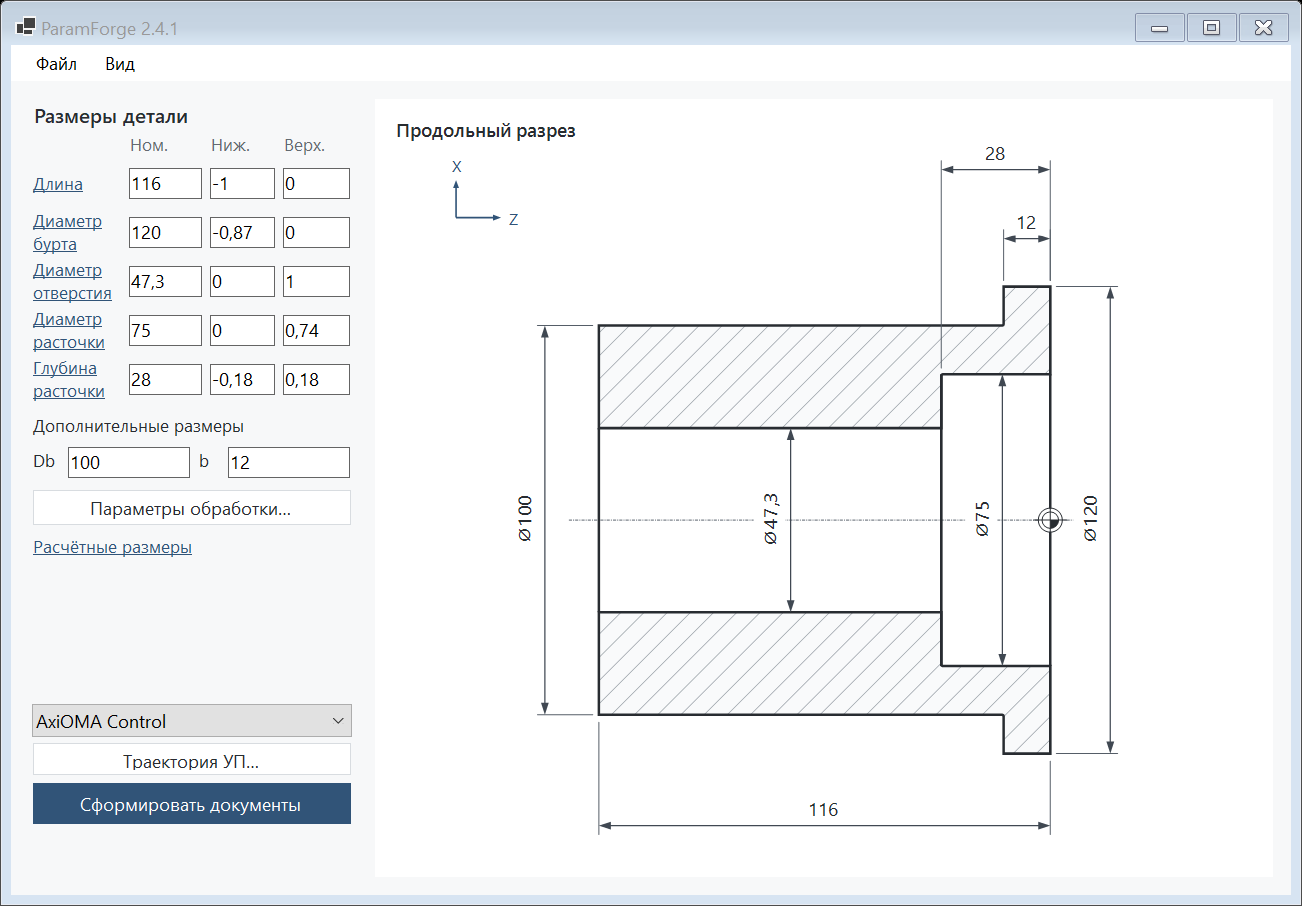
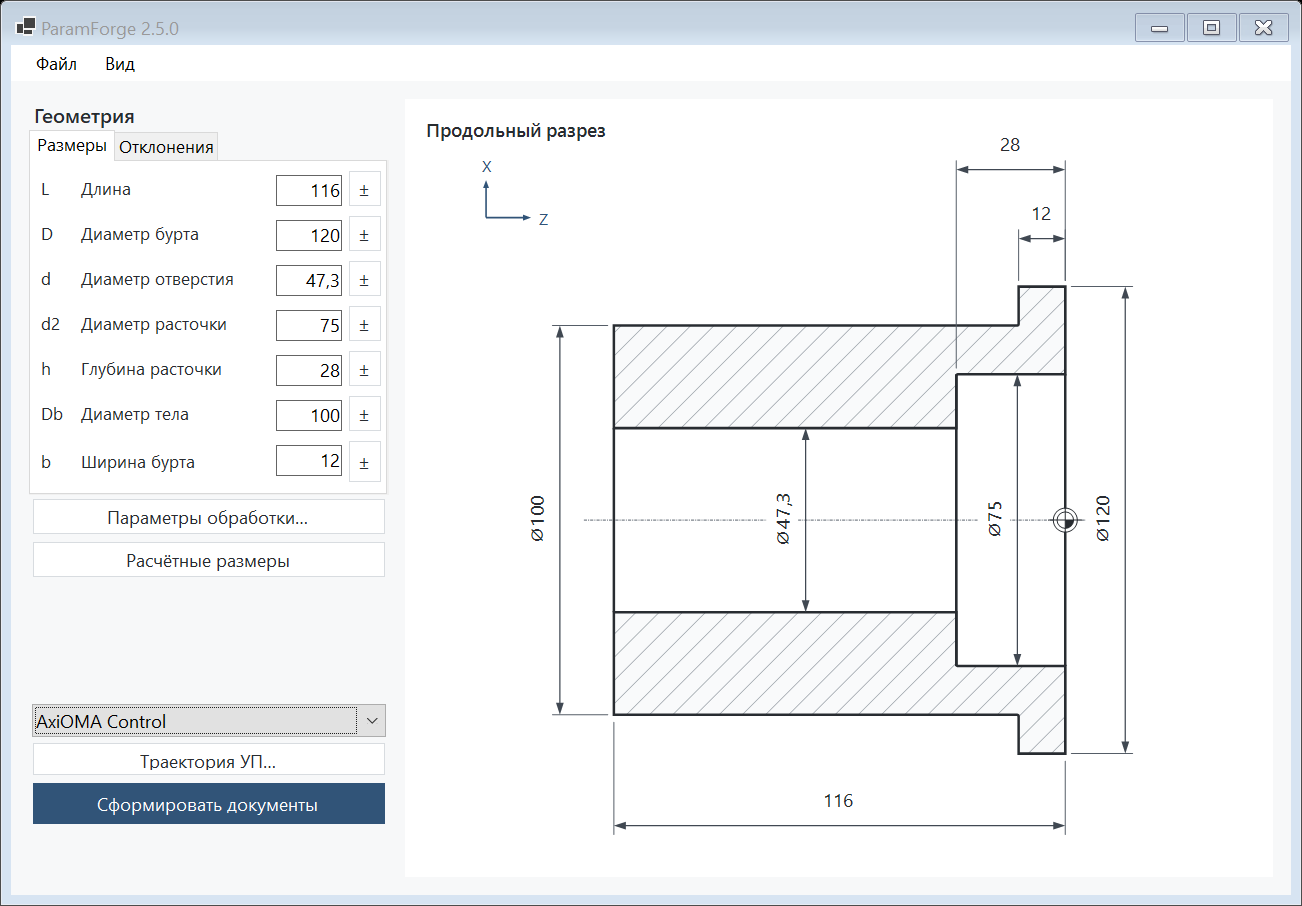
pc

diff --git a/src/Kontur.Desktop/UiSmokeV25.cs b/src/Kontur.Desktop/UiSmokeV25.cs
@@ -1,0 +1,52 @@
+using Kontur.Core;
+
+namespace Kontur.Desktop;
+
+internal static partial class UiSmoke
+{
+    private static void RunV25Checks(MainForm form, string folder, Action<string, bool, object?> check)
+    {
+        var cases = new[]
+        {
+            ("default", Engine.Defaults),
+            ("close_steps", Engine.Defaults with { CounterboreDepth = 12.5 }),
+            ("thin", Engine.Defaults with { Length = 118, FlangeDiameter = 60, BodyDiameter = 55, FlangeWidth = 2, BoreDiameter = 47.3, CounterboreDiameter = 50.5, CounterboreDepth = 1, StockDiameter = 64, StockBore = 45 }),
+            ("wide", Engine.Defaults with { Length = 60, FlangeDiameter = 200, BodyDiameter = 180, FlangeWidth = 2, BoreDiameter = 130, CounterboreDiameter = 150, CounterboreDepth = 1, StockDiameter = 204, StockBore = 128 })
+        };
+        foreach (var (name, value) in cases)
+            foreach (var standard in new[] { false, true })
+                foreach (var minimum in new[] { false, true })
+                {
+                    var p = standard ? value with { BoreTolerance = "H7", CounterboreTolerance = "JS8", FlangeTolerance = "h7", LengthTolerance = "IT10", CounterboreDepthTolerance = "IT12" } : value;
+                    form.SetParameters(p); form.SetDrawingOptions(true, true);
+                    form.Size = minimum ? new Size(1100, 720) : new Size(1302, 906); RenderDrawing(form);
+                    var s = form.Sketch;
+                    check($"v25_tolerances_{name}_{standard}_{minimum}", s.LabelsInside && !s.LabelsOverlap && s.LabelsClearOfMaterial && s.LabelsClearOfRearEdges && s.LabelsClearOfDimensionLines,
+                        new { s.LabelsInside, s.LabelsOverlap, s.LabelsClearOfMaterial, s.LabelsClearOfRearEdges, s.LabelsClearOfDimensionLines });
+                    form.CaptureForm(Path.Combine(folder, $"30-tolerances-{name}-{standard}-{minimum}.png"));
+                }
+        form.ClientSize = new Size(1280, 850); form.SetParameters(Engine.Defaults); form.GenerateNow();
+        var button = Descendants(form).OfType<Button>().Single(b => b.Name == "dimension_edit_boreDiameter");
+        var title = CancelOwnModal(form, () => button.PerformClick());
+        check("v25_explicit_tolerance_button_opens_editor", title == Engine.Fields.Single(f => f.Key == "boreDiameter").Label, title);
+        form.OpenInspection(); var inspection = form.Inspection!;
+        inspection.SelectTransitionForSmoke(2); inspection.Refresh(); Application.DoEvents();
+        var plot = inspection.Trajectory; var isolated = plot.VisibleSegmentCount;
+        plot.ShowAll = true; plot.Refresh();
+        check("v25_isolate_transition_and_show_context", isolated > 0 && plot.VisibleSegmentCount > isolated, new { isolated, all = plot.VisibleSegmentCount });
+        var withRapids = plot.VisibleSegmentCount; plot.ShowRapids = false; plot.Refresh();
+        check("v25_hide_rapids", plot.VisibleSegmentCount < withRapids, plot.VisibleSegmentCount);
+        plot.ZoomAt(new(plot.Width * .6F, plot.Height * .4F), 2);
+        check("v25_zoom_anchors_at_pointer", plot.Zoom == 2 && Math.Abs(plot.Pan.X + .1F * plot.Width) < .01 && Math.Abs(plot.Pan.Y - .1F * plot.Height) < .01, plot.Pan);
+        var beforePan = plot.Pan;
+        var flags = System.Reflection.BindingFlags.Instance | System.Reflection.BindingFlags.NonPublic;
+        typeof(Control).GetMethod("OnMouseDown", flags)!.Invoke(plot, [new MouseEventArgs(MouseButtons.Left, 1, 80, 80, 0)]);
+        typeof(Control).GetMethod("OnMouseMove", flags)!.Invoke(plot, [new MouseEventArgs(MouseButtons.Left, 0, 100, 110, 0)]);
+        typeof(Control).GetMethod("OnMouseUp", flags)!.Invoke(plot, [new MouseEventArgs(MouseButtons.Left, 1, 100, 110, 0)]);
+        check("v25_drag_pans_view", Math.Abs(plot.Pan.X - beforePan.X - 20) < .01 && Math.Abs(plot.Pan.Y - beforePan.Y - 30) < .01, plot.Pan);
+        plot.Fit(); check("v25_fit_resets_view", plot.Zoom == 1 && plot.Pan == PointF.Empty, null);
+        plot.ShowAll = false; plot.ShowRapids = true; plot.Refresh();
+        inspection.CaptureImage(Path.Combine(folder, "31-selected-transition.png"));
+        inspection.Close(); form.SetDrawingOptions(true, false);
+    }
+}

diff --git a/src/Kontur.Desktop/ResultInspectionForm.cs b/src/Kontur.Desktop/ResultInspectionForm.cs
@@ -43,10 +43,10 @@ internal sealed class ResultInspectionForm : Form
         viewport.ColumnStyles.Add(new ColumnStyle(SizeType.Percent, 100));
         viewport.RowStyles.Add(new RowStyle(SizeType.Absolute, 38)); viewport.RowStyles.Add(new RowStyle(SizeType.Percent, 100));
         var toolbar = new FlowLayoutPanel { Dock = DockStyle.Fill, WrapContents = false, BackColor = Color.White, Margin = Padding.Empty };
-        var fit = Theme.Button("Вписать"); fit.Width = 90; fit.Height = 30; fit.Margin = new Padding(0, 2, 8, 2);
+        var fit = Theme.Button("Вписать"); fit.Width = 112; fit.Height = 34; fit.Margin = new Padding(0, 2, 8, 2);
         fit.Click += (_, _) => trajectory.Fit();
         var all = new CheckBox { Text = "Все переходы", AutoSize = true, Margin = new Padding(4, 9, 10, 0) };
-        var rapids = new CheckBox { Text = "Холостые ходы", Checked = true, AutoSize = true, Margin = new Padding(4, 9, 0, 0) };
+        var rapids = new CheckBox { Text = "Холостые", Checked = true, AutoSize = true, Margin = new Padding(4, 9, 0, 0) };
         all.CheckedChanged += (_, _) => { trajectory.ShowAll = all.Checked; trajectory.Invalidate(); };
         rapids.CheckedChanged += (_, _) => { trajectory.ShowRapids = rapids.Checked; trajectory.Invalidate(); };
         toolbar.Controls.AddRange([fit, all, rapids]);
@@ -201,10 +201,10 @@ internal sealed class TrajectoryCanvas : Control
         var p = project.Params; var moves = project.Verification.Moves;
         var minZ = Math.Min(-p.Length, moves.Min(m => m.Z)); var maxZ = Math.Max(10, moves.Max(m => m.Z));
         var maxRadius = Math.Max(p.StockDiameter, moves.Max(m => m.X)) / 2;
-        var availableWidth = Math.Max(1, Width - 80 * u); var availableHeight = Math.Max(1, Height - 100 * u);
+        var availableWidth = Math.Max(1, Width - 80 * u); var availableHeight = Math.Max(1, Height - 60 * u);
         var scale = (float)Math.Min(availableWidth / (maxZ - minZ), availableHeight / maxRadius);
         var left = 40 * u + (availableWidth - (float)(maxZ - minZ) * scale) / 2;
-        var top = 70 * u + (availableHeight - (float)maxRadius * scale) / 2;
+        var top = 20 * u + (availableHeight - (float)maxRadius * scale) / 2;
         PointF Point(double z, double radius)
         {
             var x = left + (float)(z - minZ) * scale; var y = top + (float)(maxRadius - radius) * scale;
@@ -240,6 +240,6 @@ internal sealed class TrajectoryCanvas : Control
             g.FillEllipse(marker, point.X - 3 * u, point.Y - 3 * u, 6 * u, 6 * u);
         }
         WorkCoordinates.Origin(g, Point(0, 0), u);
-        WorkCoordinates.Legend(g, new(28 * u, 48 * u), u);
+        WorkCoordinates.Legend(g, new(26 * u, Height - 18 * u), u);
     }
 }

diff --git a/src/Kontur.Tests/ProgramV25.cs b/src/Kontur.Tests/ProgramV25.cs
@@ -1,0 +1,35 @@
+using System.IO.Compression;
+using System.Xml.Linq;
+using Kontur.Core;
+
+namespace Kontur.Tests;
+
+internal static partial class Program
+{
+    private static void RegisterV25Tests()
+    {
+        Add("Word nested form borders fit inside the parent content width", () =>
+        {
+            using var temp = new TempWorkspace();
+            var files = ProjectFiles.Export(Generated(Engine.Defaults), Path.Combine(temp.Root, "cards"));
+            XNamespace w = "http://schemas.openxmlformats.org/wordprocessingml/2006/main";
+            foreach (var doc in files.Where(f => f.EndsWith(".docx", StringComparison.Ordinal)))
+            {
+                using var zip = ZipFile.OpenRead(doc); using var stream = zip.GetEntry("word/document.xml")!.Open();
+                var xml = XDocument.Load(stream); var nested = xml.Descendants(w + "tc").Where(c => c.Element(w + "tbl") is not null).ToArray();
+                Check(nested.Length > 0, "header blocks present");
+                foreach (var cell in nested)
+                {
+                    var width = (int)cell.Element(w + "tcPr")!.Element(w + "tcW")!.Attribute(w + "w")!;
+                    var parentDefault = cell.Parent!.Parent!.Element(w + "tblPr")!.Element(w + "tblCellMar");
+                    int Margin(string side) => (int?)(cell.Element(w + "tcPr")!.Element(w + "tcMar")?.Element(w + side)?.Attribute(w + "w")
+                        ?? parentDefault?.Element(w + side)?.Attribute(w + "w")) ?? 0;
+                    var table = cell.Element(w + "tbl")!;
+                    var childWidth = (int)table.Element(w + "tblPr")!.Element(w + "tblW")!.Attribute(w + "w")!;
+                    Check(childWidth + Margin("left") + Margin("right") <= width, "nested border must fit, including cell padding");
+                    Equal("single", (string)table.Element(w + "tblPr")!.Element(w + "tblBorders")!.Element(w + "right")!.Attribute(w + "val")!);
+                }
+            }
+        });
+    }
+}

diff --git a/src/Kontur.Core/NativeDocxCards.cs b/src/Kontur.Core/NativeDocxCards.cs
@@ -79,11 +79,33 @@ internal static class NativeDocxCards
                 .Select(side => new XElement(W + side, new XAttribute(W + "w", 0), new XAttribute(W + "type", "dxa")))));
             pr.Add(Val("vAlign", "center"));
             var tc = new XElement(W + "tc", pr);
-            if (c.Nested is not null) { tc.Add(c.Nested); tc.Add(P("", 2)); }
+            if (c.Nested is not null)
+            {
+                // Use the actual parent grid width, including its twip rounding.
+                FitNested(c.Nested, (int)pr.Element(W + "tcW")!.Attribute(W + "w")!);
+                tc.Add(c.Nested); tc.Add(P("", 2));
+            }
             else tc.Add(P(c.Text, c.Font, c.Bold, c.Center ? "center" : "left"));
             tr.Add(tc); x += c.Width;
         }
         table.Add(tr);
+    }
+    private static void FitNested(XElement table, int width)
+    {
+        table.Element(W + "tblPr")!.Element(W + "tblW")!.SetAttributeValue(W + "w", width);
+        var columns = table.Element(W + "tblGrid")!.Elements(W + "gridCol").ToArray();
+        for (var i = 0; i < columns.Length; i++) columns[i].SetAttributeValue(W + "w", (i + 1) * width / columns.Length - i * width / columns.Length);
+        foreach (var row in table.Elements(W + "tr"))
+        {
+            var x = 0;
+            foreach (var cell in row.Elements(W + "tc"))
+            {
+                var properties = cell.Element(W + "tcPr")!;
+                var span = (int)properties.Element(W + "gridSpan")!.Attribute(W + "val")!;
+                properties.Element(W + "tcW")!.SetAttributeValue(W + "w", (x + span) * width / columns.Length - x * width / columns.Length);
+                x += span;
+            }
+        }
     }
     private static IEnumerable<XElement> Top(string standard, string form, bool nextPage = false)
     {

diff --git a/src/Kontur.Desktop/UiSmoke.cs b/src/Kontur.Desktop/UiSmoke.cs
@@ -303,6 +303,7 @@ internal static partial class UiSmoke
             form.SetParameters(Engine.Defaults);
             form.GenerateNow();
             RunV24Checks(form, folder, Check);
+            RunV25Checks(form, folder, Check);
             form.CaptureProcessingDialog(Path.Combine(folder, "07-processing-dialog.png"));
             form.CaptureExportDialog(files, Path.Combine(folder, "08-export-result-dialog.png"));
         }
@@ -320,6 +321,10 @@ internal static partial class UiSmoke
                 CheckCaptions(simulated, "scaled_" + targetDpi, Check);
                 Check("text_scale_simulation_" + targetDpi, simulated.DrawingLabelsInside && !simulated.DrawingLabelsOverlap && simulated.RearWallsClosed && simulated.DrawingLabelsClearOfMaterial && simulated.DrawingBoreDimensionsClearOfMaterial && simulated.DrawingLabelsClearOfRearEdges,
                     new { simulatedDpi = targetDpi, actualWindowsDpi = simulated.DeviceDpi, scope = "application text scaling simulation; Windows DPI settings unchanged" });
+                simulated.SetDrawingOptions(true, true); RenderDrawing(simulated);
+                Check("v25_tolerance_scale_" + targetDpi, simulated.DrawingLabelsInside && !simulated.DrawingLabelsOverlap && simulated.DrawingLabelsClearOfRearEdges && simulated.Sketch.LabelsClearOfDimensionLines, null);
+                simulated.CaptureForm(Path.Combine(folder, $"06-tolerances-simulation-{targetDpi}dpi.png"));
+                simulated.SetDrawingOptions(true, false);
                 foreach (var key in new[] { "length", "flangeDiameter", "bodyDiameter", "flangeWidth", "boreDiameter", "counterboreDiameter", "counterboreDepth" })
                 {
                     var before = JsonSerializer.Serialize(simulated.CurrentProject!);

diff --git a/src/Kontur.Desktop/MainForm.cs b/src/Kontur.Desktop/MainForm.cs
@@ -121,7 +121,7 @@ internal sealed class MainForm : Form
         form.RowStyles.Add(new RowStyle(SizeType.Absolute, 31));
         form.RowStyles.Add(new RowStyle(SizeType.Absolute, 365));
         form.RowStyles.Add(new RowStyle(SizeType.Absolute, 43));
-        form.RowStyles.Add(new RowStyle(SizeType.Absolute, 35));
+        form.RowStyles.Add(new RowStyle(SizeType.Absolute, 43));
         form.RowStyles.Add(new RowStyle(SizeType.Absolute, 8));
         form.Controls.Add(Theme.Label("Геометрия", Theme.Strong), 0, 0);
         form.Controls.Add(BuildDimensions(), 0, 1);
@@ -157,7 +157,7 @@ internal sealed class MainForm : Form
         var tolerances = new TabPage("Отклонения") { BackColor = Color.White, Padding = new Padding(4) };
         tabs.TabPages.AddRange([geometry, tolerances]);
         var table = new TableLayoutPanel { Dock = DockStyle.Fill, ColumnCount = 4, RowCount = Dimensions.Length, Margin = Padding.Empty };
-        table.ColumnStyles.Add(new ColumnStyle(SizeType.Absolute, 29));
+        table.ColumnStyles.Add(new ColumnStyle(SizeType.Absolute, 40));
         table.ColumnStyles.Add(new ColumnStyle(SizeType.Percent, 100));
         table.ColumnStyles.Add(new ColumnStyle(SizeType.Absolute, 74));
         table.ColumnStyles.Add(new ColumnStyle(SizeType.Absolute, 34));

diff --git a/src/Kontur.Tests/Program.cs b/src/Kontur.Tests/Program.cs
@@ -130,6 +130,7 @@ internal static partial class Program
     private static void RegisterTests()
     {
         RegisterV24Tests();
+        RegisterV25Tests();
         Add("field schema exposes exactly 32 numeric parameters", () =>
         {
             Equal(32, Engine.Fields.Count, "numeric field count");

diff --git a/docs/VALIDATION_2.5.md b/docs/VALIDATION_2.5.md
@@ -1,0 +1,27 @@
+# Проверка ParamForge 2.5.0 от 30 октября 2026 года
+
+Версия исправляет размещение допусков, упрощает панель геометрии и управление траекторией, восстанавливает правые границы верхних блоков карт Word. Сборка выполнена без предупреждений и ошибок. Пройдены 387 тестов ядра, включая 349 исходных, и 182 проверки интерфейса.
+
+## Чертёж и интерфейс
+
+Полная надпись с допуском учитывается при выборе отступа от размерной линии и свободного места в отверстии. Для тесных размеров используются вынесение диаметра и продолжение горизонтальной размерной линии. Геометрические проверки учитывают прямоугольник подложки текста: он не должен пересекать размерные и выносные линии или задние кромки.
+
+Проверены ручные и стандартные допуски на четырёх вариантах: исходная деталь, близкие уступы, тонкая и широкая детали. Проверены минимальное и обычное окна, а также масштаб 96/120/144/192 dpi в модели интерфейса. Фактический DPI текущего сеанса — 144. Настройки Windows не менялись; проверка переключения физических мониторов с разным DPI не проводилась.
+
+Названия семи размеров показаны в одну строку. Отдельная кнопка «±» открывает редактор, а числовые отклонения доступны на второй вкладке. Проверено открытие редактора этой кнопкой. Перечень строк строится из описателей параметров; расчётная модель остаётся моделью втулки с буртиком. Импорт произвольного чертежа не реализован; существующий JSON поддерживается.
+
+В траектории проверены выбор перехода и кадра, изоляция выбранного перехода, включение остальных движений и скрытие G0, масштабирование вокруг указателя, перетаскивание и возврат общего вида. Окно по умолчанию увеличено в пределах рабочего экрана. Наиболее близкий использованный подход — управление видимостью отдельных траекторий и геометрии в Autodesk CAM: https://help.autodesk.com/cloudhelp/2020/ENU/INVCAM/files/GUID-746B5222-5E9D-4EF4-8566-2F6B1F2312BB.htm
+
+Разделители в виде средних точек удалены из интерфейса и HTML-карт. Точки внутри обозначений переходов и десятичные точки языка УП сохраняют своё техническое значение.
+
+## Карты
+
+Причина отсутствующей правой границы — ширина вложенной таблицы вместе с унаследованными внутренними полями превышала ширину родительской ячейки. Убраны поля контейнера; сетка вложенной таблицы пересчитывается по фактической ширине ячейки с учётом округления в twips. Добавлен тест, проверяющий размещение вложенных таблиц обеих карт и наличие заданной правой границы.
+
+Сформированы четыре комплекта: исходный Siemens, укороченный Siemens, Siemens со стандартными допусками и исходный AxiOMA. Все 8 DOCX открыты Word 16.0 только для чтения, экспортированы в PDF и растеризованы пакетным render_docx.py с использованием этих PDF. Просмотрены все 12 страниц. Восстановленные правые линии видны во всех верхних блоках; текст не обрезан, номера листов и обозначения программ читаются. МК занимает один лист, ОК — два. SHA256 исходных DOCX до и после открытия совпали.
+
+По содержанию сохраняется согласованный маршрут 005 → 010 → 020 → 030. Операционная карта и УП описывают операцию 010 с восемью переходами. Проверки ядра сопоставляют числовые значения карт, план обработки и прочитанные движения УП, включая выбранный профиль, подачу, обороты и время G1. Отдельно проверены обозначения стандартных допусков и числовые отклонения.
+
+Основа формы МК — ГОСТ 3.1118-82, форма 1; ОК — ГОСТ 3.1404-86, формы 3 и 2а. Для блоков основной надписи актуальная общая ссылка — ГОСТ 3.1103-2011, раздел 5 и приложение В: https://protect.gost.ru/gost/details/c143b806-c7bf-4234-9f35-466cfb73594e. Графические блоки также сопоставлены с исходными рисунками ГОСТ 3.1103-82: https://files.stroyinf.ru/Data2/1/4294845/4294845091.pdf. Отсутствие предусмотренной в шаблоне правой линии было ошибкой генерации.
+
+Это проверка согласованности расчётов и оформления контрольных комплектов. Полный нормоконтроль всех граф и их размеров, заполнение реквизитов конкретного предприятия и утверждение техпроцесса преподавателем не выполнены. Производственная применимость выбранных материала, оборудования и оснастки требует отдельного подтверждения. Фактический прогон в SinuTrain или AxiOMA не выполнялся; статус УП остаётся статическим.

diff --git a/README.md b/README.md
@@ -1,12 +1,12 @@
-# ParamForge 2.4
+# ParamForge 2.5
 
 Настольное приложение Windows для втулки с буртиком. По размерам детали формирует маршрутную карту, операционную карту и управляющую программу.
 
 ## Запуск
 
-1. Откройте `Запустить.cmd` или `release/ParamForge-2.4.1/ParamForge.exe`.
-2. Измените размеры в полях слева или нажмите на нужный размер на чертеже. Нажатие названия размера слева также открывает редактор. В нём доступны ручные отклонения и стандартные H/h/JS/js, IT6–IT16; для L и h — симметричный числовой допуск по IT. Enter подтверждает ввод, Esc отменяет.
-3. Выберите AxiOMA Control или SINUMERIK 840D sl в списке слева. Кнопка **«Траектория УП…»** открывает переходы, верхний профиль детали, восстановленную из УП траекторию и связанный текст программы.
+1. Откройте `Запустить.cmd` или `release/ParamForge-2.5.0/ParamForge.exe`.
+2. Измените значения на вкладке «Размеры». Кнопка «±» в строке открывает редактор размера и допуска; он также доступен через размер на разрезе. На вкладке «Отклонения» можно непосредственно изменить числовые отклонения. В редакторе доступны ручной режим и стандартные H/h/JS/js, IT6–IT16; для L и h — симметричный числовой допуск по IT. Enter подтверждает ввод, Esc отменяет.
+3. Выберите AxiOMA Control или SINUMERIK 840D sl в списке слева. Кнопка **«Траектория УП…»** открывает переходы, верхний профиль детали, восстановленную из УП траекторию и связанный текст программы. По умолчанию виден выбранный переход. «Все переходы» включает остальные движения приглушённым цветом; «Холостые» управляет G0. Колесо мыши меняет масштаб вокруг указателя, перетаскивание перемещает вид, «Вписать» или двойное нажатие возвращает общий план.
 4. Нажмите **«Сформировать документы»** и выберите папку.
 
 Приложение создаёт новую подпапку «Документы втулки», сохраняя существующие комплекты. В ней ровно три файла:
@@ -34,11 +34,11 @@ C# / .NET 10, Windows Forms. Для запуска нужен .NET Desktop Runti
 # Регрессионные проверки ядра отдельно:
 dotnet run --project src/Kontur.Tests -c Release -- --report qa/tests.json
 # Проверка окна приложения с сохранением изображений:
-release/ParamForge-2.4.1/ParamForge.exe --smoke-output qa/ui
+release/ParamForge-2.5.0/ParamForge.exe --smoke-output qa/ui
 ```
 
 Карты содержат редактируемые таблицы Word. Неизвестные коды, подписи, нормы времени и производственные реквизиты оставлены пустыми. Полное заполнение производственного комплекта ЕСТД не заявляется. Исходные беседы, личные материалы и текст диплома хранятся отдельно от репозитория.
 
-Результаты проверки версии 2.4 описаны в [VALIDATION_2.4.md](docs/VALIDATION_2.4.md).
+Результаты текущей проверки описаны в [VALIDATION_2.5.md](docs/VALIDATION_2.5.md); предыдущая версия — в [VALIDATION_2.4.md](docs/VALIDATION_2.4.md).
 
 ![Окно ParamForge](docs/native-window.png)

diff --git a/docs/DRAWING_RULES.md b/docs/DRAWING_RULES.md
@@ -34,3 +34,9 @@
 Штриховка строится векторными линиями под 45° с общей фазой и шагом для обеих областей материала. Шаг в независимых от DPI экранных единицах равен sqrt(площади габарита изображения)/28 с ограничением 8–18; физический DPI применяется после расчёта. Диапазон 1–10 мм в ГОСТ 2.306 относится к изображению на чертеже и не отождествляется с экранными пикселями. Штриховка обрезается по фактическим контурам, включая галтели.
 
 Проверены: полный продольный разрез, задние кромки, незаштрихованное отверстие, отношение толщин основных и тонких линий, осевая, размерные стрелки, знаки диаметра, чтение чисел, симметричные и асимметричные отклонения. Контур 1,7, размерные линии 0,75, осевая 0,7 и штриховка 0,65 экранных единиц до DPI-масштабирования. Это экранное параметрическое изображение; рамка, основная надпись, технический шрифт и отдельный конструкторский документ не формируются. Полное соответствие отдельного рабочего чертежа ЕСКД не заявляется.
+
+## Размещение допусков в 2.5
+
+Отступ вертикального числа от размерной линии рассчитывается по полной высоте надписи с отклонениями, а не по одному номиналу. Ширина свободного участка также учитывает полный размер надписи. При тесном расположении внутренний диаметр выносится наружу. Горизонтальное число может располагаться на продолжении размерной линии, чтобы не пересекать соседние выносные линии.
+
+Проверяется отсутствие пересечения подложек текста с размерными и выносными линиями, задними кромками и другими числами. Подложка может прерывать осевую в месте числа. В проверках участвуют ручные и стандартные допуски, близкие уступы, широкая и тонкая детали, минимальное окно и моделирование масштаба 100–200%.

diff --git a/docs/CONFIGURATION.md b/docs/CONFIGURATION.md
@@ -1,4 +1,4 @@
-# Профиль генерации ParamForge 2.4
+# Профиль генерации ParamForge 2.5
 
 Приложение строит маршрут для одной параметрической втулки с буртиком и выдаёт МК, операционную карту операции 010 и УП. УП покрывает только операцию 010: наружное точение и растачивание в одном установе. Подготовка заготовки 005, отделение с доводкой заднего торца 020 и контроль 030 выполняются вне УП. Они явно присутствуют в МК.
 

diff --git a/docs/SINUTRAIN.md b/docs/SINUTRAIN.md
@@ -1,4 +1,4 @@
-# Проверка ParamForge 2.4 в SinuTrain
+# Проверка ParamForge 2.5 в SinuTrain
 
 Подготовлены три варианта: исходная втулка, укороченная втулка и втулка со стандартными допусками. Каждый комплект содержит МК, ОК и одну MPF. JSON рядом с комплектом открывается через меню «Файл» ParamForge и позволяет повторить расчёт.
 
